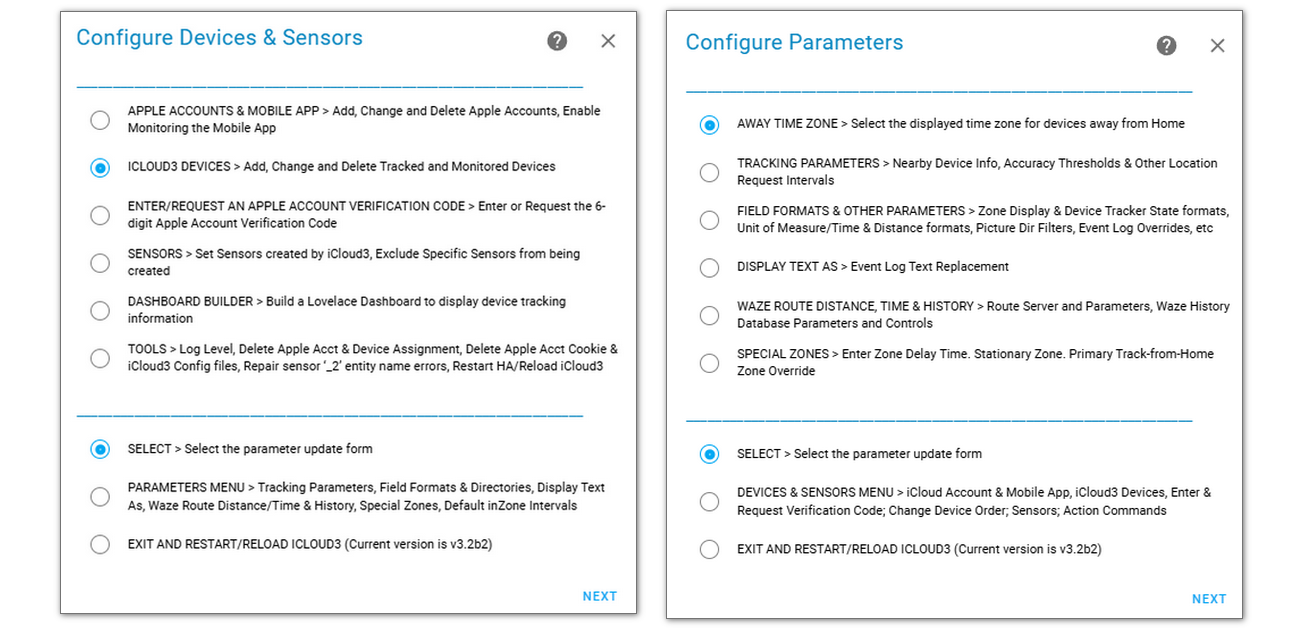
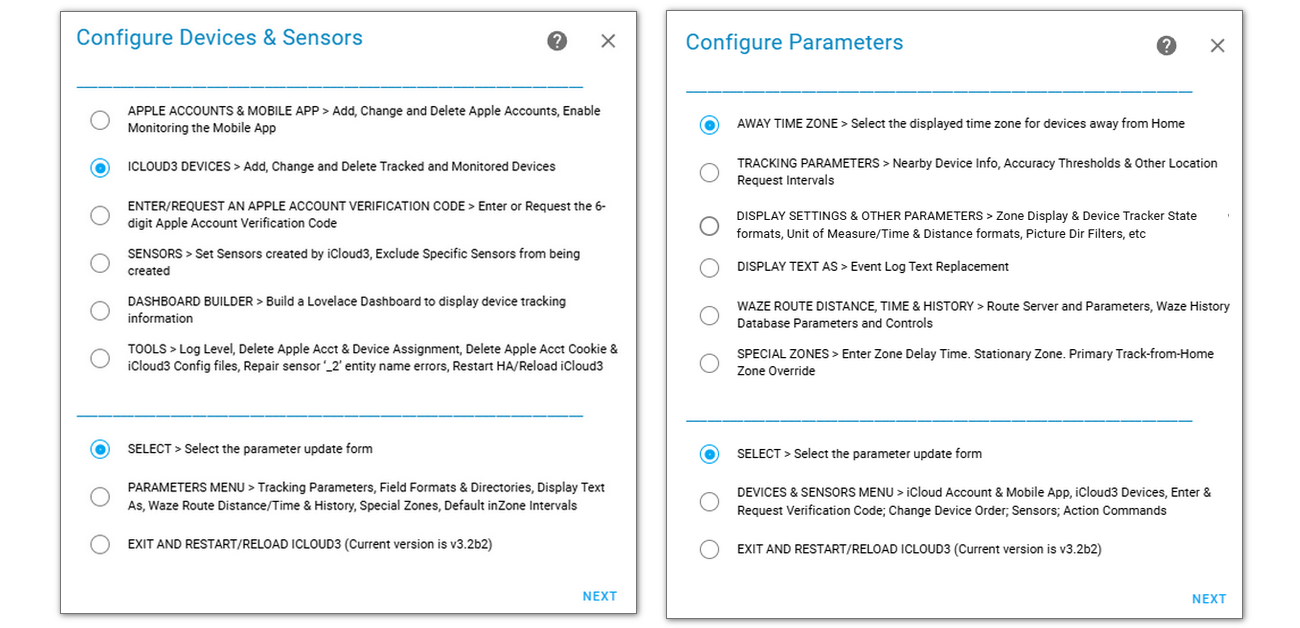
docs

Changed region(s): [[0.5231, 0.3025, 0.9538, 0.3933]]

diff --git a/docs/chapters/5_sensors.md b/docs/chapters/5_sensors.md
@@ -2,4 +2,54 @@
 
 ##### Selected From: *Configure Devices & Sensors Menu*
 
+Many sensors are used to display tracking results and other information for a device. This screen is used to select the sensors that should be created.
+
+The sensors are grouped into the following categories:
+
+- **Monitored devices sensors**:
+
+  - **_badge** - Badge sensor - A badge showing the Zone Name or distance from the Home zone. Attributes include location related information
+  - **_battery , _battery_status** - Create Battery (65%) and Battery Status (Charging, Low, etc) sensors (Always Created)
+  - **_location_sensors** - Location related sensors > Name, zone, distance, travel_time, etc. (_name, _zone, _zone_fname, _zone_name, _zone_datetime, _home_distance, _travel_time, _travel_time_min, _last_located, _last_update)
+
+- **Tracking update sensors**:
+
+  - **_interval** - Time between location request
+  - **_last_update** - Last time the location was updated
+  - **_next_update**  - Next time the location will be updated (Always Created)
+  - **_last_located** - Last time the was located using iCloud or Mobile App location
+
+- **Tracking time sensors:**
+
+  - **_travel_time** - Waze Travel time to Home or closest Track-from-Zone zone (Always Created)
+  - **_travel_time_min** - Waze Travel time to Home or closest Track-from-Zone zone in minutes
+  - **_travel_time_hhmm** - Waze Travel time to a Zone in hours:minutes
+  - **_arrival_time** - Home Zone arrival time based on Waze Travel time (Always Created)
+
+- **Tracking distance sensors**:
+
+  - **_home_distance** - Distance to the Home zone (Always Created)
+  - **_zone_distance** - Distance to the Home or closest Track-from-Zone zone
+  - **_dir_of_travel** - Direction of Travel for the Home zone or closest Track-from-Zone zone (Towards, AwayFrom, inZone, etc)
+  - **_moved_distance** - Distance moved from the last location
+
+- **Track from Zone sensors**:
+
+  - **_zone_fname** - HA Zone entity Friendly Name (HA Config > Areas & Zones > Zones > Name)
+  - **_zone** - HA Zone entity_id (`the_shores`)
+  - **_zone_name** - Reformat the Zone entity_id, capitalize and remove `_`s (`the_shores` → `TheShores`)
+  - **_zone_datetime** - The time the Device entered the Zone
+  - **_zone_fname** > HA Zone entity Friendly Name (HA Config > Areas & Zones > Zones > Name)
+  - **_last_zone[...]** - Create the same sensors for the device`s last HA Zone
+
+- **Other tracking sensors:**
+
+  - **_gps_accuracy** - GPS acuracy of the last location coordinates
+  - **_vertical_accuracy** - Vertical (Elevation) Accuracy
+  - **_altitude** - Altitude/Elevation
+
+- **Excluded sensors** -  Sensors that will not be created when iCloud3 starts
+
+  
+
 ![](../images/sensors.png)

diff --git a/docs/chapters/5_special-zones.md b/docs/chapters/5_special-zones.md
@@ -2,4 +2,18 @@
 
 ##### Selected From: *Configure Parameters Menu*
 
+This screen is used to configure:
+
+- **Stationary Zones** - A temporary Stationary Zone is created when the device is in the same location for a short period of time. This may be a doctor's office, mall, store, friends house, etc. It is used to control the number of location requests sent to Apple.
+  - Disable the check box if you do not want to use a Stationary Zone
+  - **No Movement Tim**e - Time at the same location before moving into a Stationary Zone
+  - **InZone Interval** - Time interval between location requests when in a Stationary Zone
+  - **Stationary Zone Name** - Display this value in the Event Log, device_tracker, travel direction and zone entities when the device is in a Stationary Zone. iCloud3 assigns a number to the Stationary Zone. Use the wildcard character '#' to display this value in the Stationary Zone's name (StatZon1, StatZon2, etc). Note: A 7-letter name leaves room for the name and number to be displayed on iPhone screens without being truncated.
+- **Enter Zone Delay Time** - You may be driving through a non-tracked zone but not stopping at the zone. The Mobile App issues an Enter Zone trigger when the device enters the zone and changes the device_tracker entity state to the Zone. iCloud3 does not process the Enter Zone trigger until the delay time has passed. This prevents processing a Zone Enter trigger that is immediately followed by an Exit Zone trigger.
+  - Disable the check box if you do not want to immediately enter a zone 
+-  **Primary Track-from-Home Zone Override** - Normally, the Home zone is used as the primary track-from-zone for the tracking results (travel time, distance, etc).  However, a different zone can be used as the base location if you are away from Home for an extended period or the device is normally at another location (vacation house, second home, parent's house, etc.). This is a global setting that overrides the Primary Track-from-Home Zone assigned to an individual Device on the Update.
+  - **Track from Zone** - Normally Home. The zone you want to use as your 'Home' zone
+
+
+
 ![](../images/special-zones.png)

diff --git a/docs/chapters/5_tools.md b/docs/chapters/5_tools.md
@@ -2,4 +2,39 @@
 
 ##### Selected From: *Configure Devices & Sensors Menu*
 
+This screen can be used to change the iCloud3 Log Level, update the iCloud3 configuration files to correct errors, reset the configuration their default values, reload iCloud3, restart Home Assistant, etc.
+
+### Log Level
+
+The type of messages that are written to the iCloud3 Log file (icloud3.log
+
+- **Info** - Log General Information and Event Log messages
+- **Debug** - Info + Other Internal Tracking Monitors
+- **Debug (HALog)** - Also add log records to the `home-assistant.log` file
+- **Debug (AutoReset)** - Debug logging that resets to Info at midnight
+- **Rawdata** - Debug + Device Data (filtered) received from iCloud Location Servers
+- **Rawdata (AutoReset)** - RawData logging that resets to Info at midnight
+- **Rawdata (Unfiltered)** - Device Data fields (everything) received from iCloud Location Servers
+- **Rawdata Log Device Filter** - Write iCloud Device Data to the log file for only these devices
+
+### Tools
+
+Various tools that will perform maintenance actions on the iCloud3 Configuration file and Apple account cookie and session files.
+
+-  **Clear Device's data Source Selections** -  Erase the Apple Acct Device and Mobile App Device selection fields for all iCloud3 devices (Update iCloud3 Device screen)
+
+-  **Remove all Apple Accounts and Devices** - Erase all Apple Accts (Apple Acct and Mobile App screen) and Erase all Devices (iCloud3 Devices screen)
+
+-  **Reset General Configuration Parameters** - Set the General Parameters to their default value (Other Parameter Menu screens). Sensors are reset on the Sensors screen.
+
+-  **Delete All Apple Cookie Files** - Delete Apple Acct Cookie & Session files in the **.storage/icloud3.apple_acct* directory, and Restart HA
+
+-  **Delete All iCloud3 Configuration Files** - Delete the iCloud3  Configuration files in the *.storage/icloud3* directory. 
+
+-  **Restart HA** - Restart Home Assistant and iCloud3
+
+-  **Repair _2 Sensor Entity Name Errors** - Rename ‘_2’ sensor entities back to the correct name without the *_2* extension
+
+  
+
 ![](../images/tools.png)

diff --git a/docs/chapters/5_waze.md b/docs/chapters/5_waze.md
@@ -2,4 +2,18 @@
 
 ##### Selected From: *Configure Parameters Menu*
 
+
+
+iCloud3 uses the Waze Route service to get the time and travel distance from the device's current to the Home or other tracked zone. This information is saved in the Waze History Database in 100 meter increments. The database is queried before sending the request to Waze to improve performance and minimize internet traffic in poor locations. This screen is used to configure Waze.
+
+The following fields are available:
+
+- **Route Server Location** - Location of the Waze Route Server for your area (US, IS, Rest of the World)
+- **Use Real Time Data** - Waze should consider traffic delays when determining travel time
+- **Minimum Distance** - Do not use Waze if the devices is less than this distance from Home or the tracked zone
+- **Maximum Distance** - Do not use Waze if the device is greater than this distance and a long way from Home or the tracked zone
+- **General Travel Direction** - Used to display 'Map Trace Lines' between saved locations
+- **History Database** - Enable/Disable using the Waze History Database
+- **History Max Distance** - The database is most useful for regular travel routes. It does not make sense to fill up the database with data that will never be used again. Do not store Waze data in the database for locations greater than this distance. 
+
 ![](../images/waze.png)

diff --git a/docs/chapters/5_display_settings_parms.md b/docs/chapters/5_display_settings_parms.md
@@ -1,0 +1,29 @@
+# Display Settings & Other Parameters <!-- {docsify-ignore} -->
+
+##### Selected From: *Configure Parameters Menu*
+
+This screen specifies how tracking results and other information is displayed in the Event Log, sensors and device_tracker entities.
+
+
+The following fields are available:
+
+- **Event Log Zone Display Nam**e - How the Zone name is displayed in sensors and the Event Log
+
+- **Device Tracker State Value** - How the device's device_tracker entity state value is determined
+
+- **Time Format** - How time fields are displayed in sensors and in the Event Log (12-hour time, 24-hour time)
+
+- **Unit of Measure** - How distance fields are displayed in sensors and in the Event Log (mi, km)
+
+- **Display GPS Info** - Display the GPS (Latitude, Longitude/±Accuracy) or only the GPS (/±Accuracy) in the Event Log
+- **Display GPS Coordinates** - Display GPS-(22.32771, -76.33073/±35m) instead of GPS-/±35m in the Event Log
+
+- **Picture Directory Filter** - Select the directories containing Device image files (.png, .jpg)
+
+- **Event Log Card Dashboard Resources Directory** - Event Log custom card .js file directory
+
+- **Event Log 'Gear' Icon URL** > Special URL that display's the HA Configure Settings screen
+
+  
+
+![](../images/display-settings-other-parameters.png)

diff --git a/docs/chapters/5_away-time-zone.md b/docs/chapters/5_away-time-zone.md
@@ -2,4 +2,14 @@
 
 ##### Selected From: *Configure Parameters Menu*
 
+The time displayed in the Event Log and Sensors show the time an event took place using the Home 'time zone' from your Home Assistant computer.  When you are away from Home and in another time zone, your tracking events are still based on the time at your Home 'time zone', not time in your current location. This screen lets you display time events using your current location's time zone.
+
+The following fields are available:
+
+- **Devices in Away Time Zone #1 and #2** - Select the devices that are away
+
+- **Time & Time Zone Adjustment at Current Location #1 & #2** - Select the time at your current location 
+
+
+
 ![](../images/away-time-zone.png)

diff --git a/docs/_sidebar.md b/docs/_sidebar.md
@@ -39,11 +39,12 @@
 
 <u>**Configure Operational Parameters**</u>
 - [ •  Away Time Zone](chapters/5_away-time-zone.md)
-- [ •  Display Text As](chapters/5_display-text-as.md)
-- [ •  Field Formats](chapters/5_field-formats.md)
+- [ •  Display Settings & Other Parameters](chapters/5_display_settings_parms.md)
+-  [ •  Display Text As](chapters/5_display-text-as.md)
 - [ •  Maintenance Tools](chapters/5_tools.md)
 - [ •  Sensors](chapters/5_sensors.md)
 - [ •  Special Zones](chapters/5_special-zones.md)
+-  [ •  Tracking Parameters](chapters/5_tracking_parms.md)
 - [ •  Waze Route Time & Distance](chapters/5_waze.md)
 
  

diff --git a/docs/chapters/5_display-text-as.md b/docs/chapters/5_display-text-as.md
@@ -2,4 +2,14 @@
 
 ##### Selected From: *Configure Parameters Menu*
 
+There may be some text fields, such as email addresses or phone numbers, that are displayed on the Event Log screen that are private and should not be displayed. For example, you can replace 'geekstergary@apple.com' with 'gary@email.com'. This screen is used to specify the original text and the text that should be displayed.
+
+The following fields are available:
+
+- **Original Tex**t - Text to be replaced (example: gary_real_email@gmail.com)
+
+- **Displayed Text** - Text to be displayed (display:  gary@email.com)
+
+  
+
 ![](../images/display-text-as.png)
